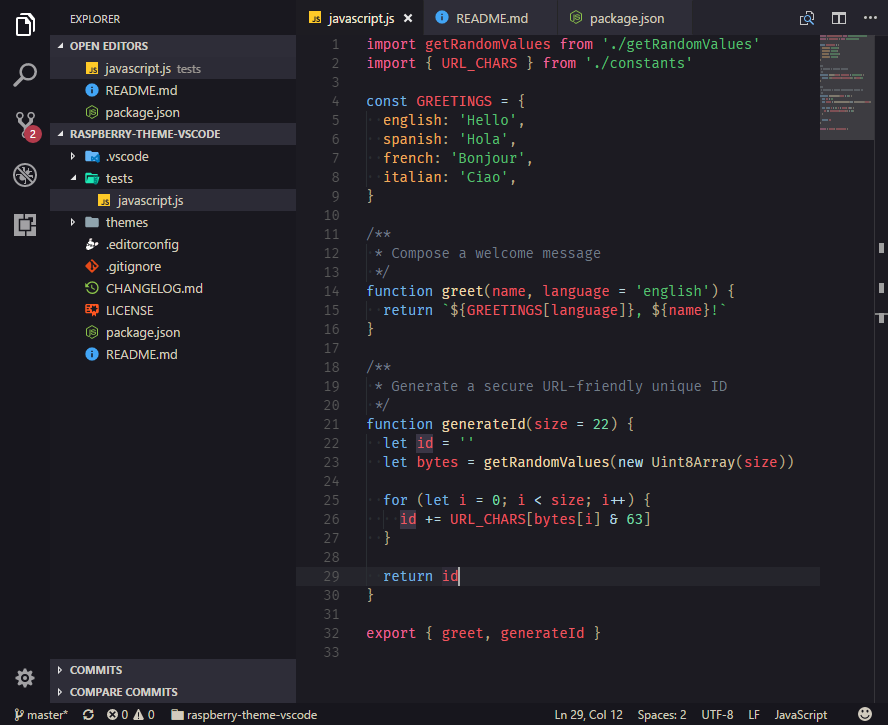
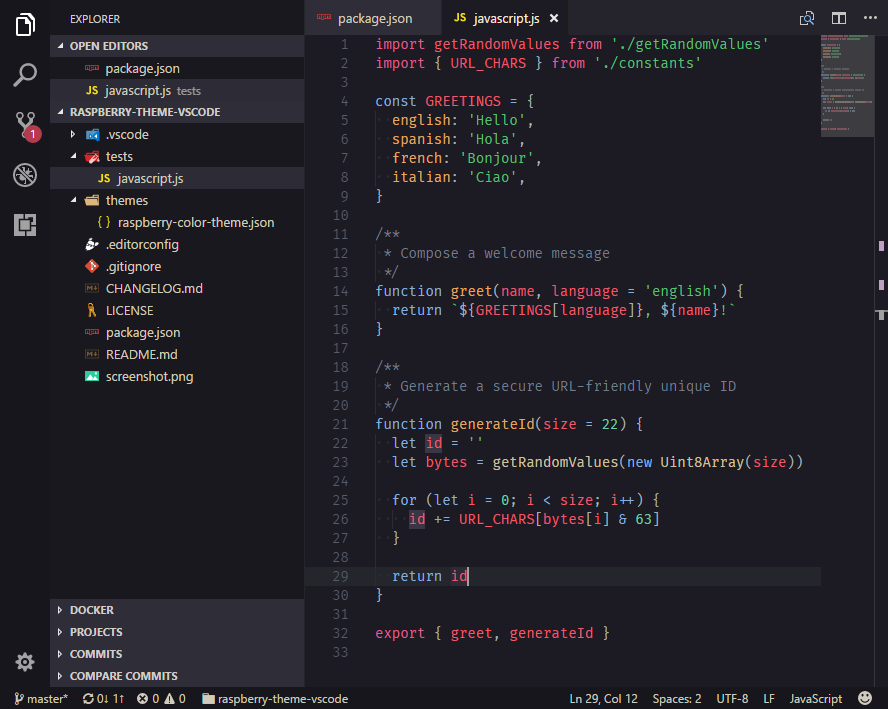
Update changelog and screenshot

diff --git a/CHANGELOG.md b/CHANGELOG.md
@@ -1,2 +1,5 @@
+## 0.2.0
+- Various adjustments
+
 ## 0.1.0
 - Initial release
